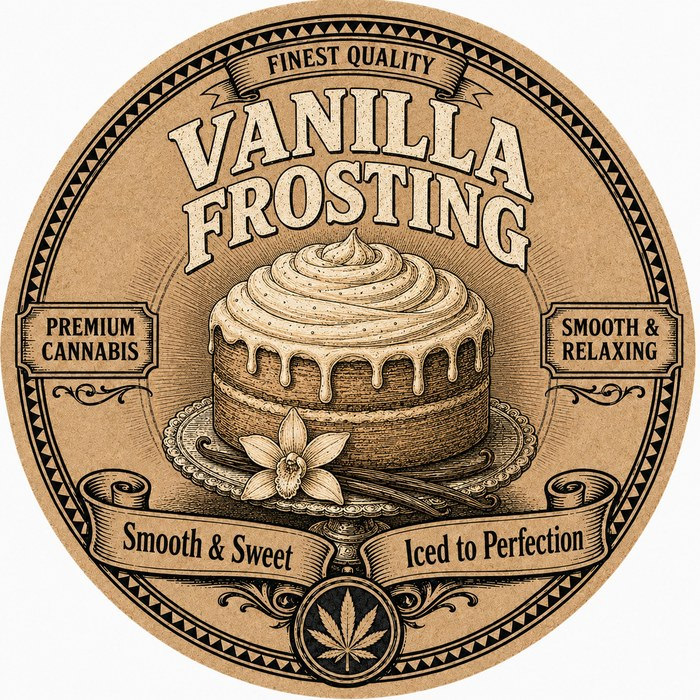
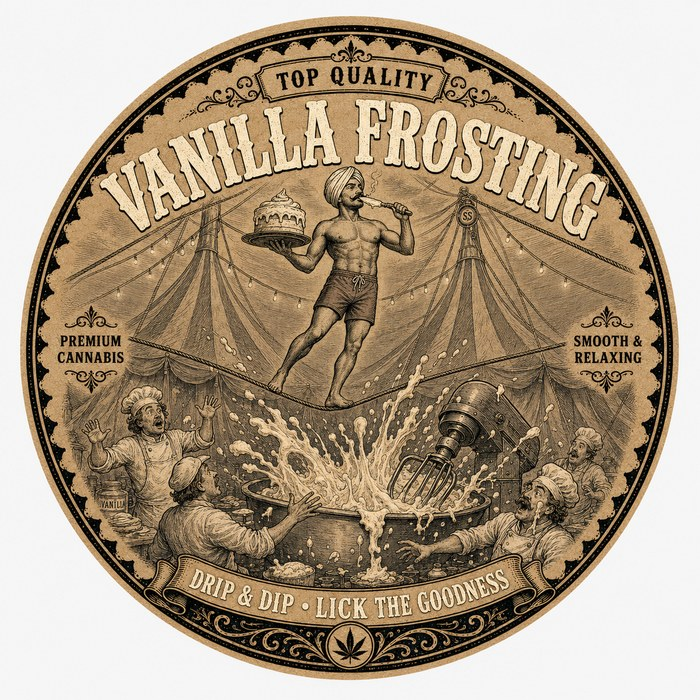
feat: ingest 16 new labels incl. new strain Cap Junky (catalog 266)
New art: blue-dream cigarette-main (replaces the removed alt), animal-face
cartoon, gary-payton pin-up, green-crack pin-up, ice-cream-cake pin-up,
lemon-cherry-gelato pin-up, maui-wowie pin-up, slurricane cigarette,
vanilla-frosting cartoon, wedding-cake cartoon, and Cap Junky pin-up
(new strain, added by creating its folder). Auto-optimized on import.

diff --git a/labelCatalog.js b/labelCatalog.js
@@ -6,7 +6,7 @@
 
 const LABEL_CATALOG = [
 
-    // Cigarette Series (43)
+    // Cigarette Series (45)
     {
         strain: "AK-47",
         strainSlug: "ak-47",
@@ -62,6 +62,14 @@ const LABEL_CATALOG = [
         seriesSlug: "cigarette",
         image: "public/labels/black-garlic/cigarette-main.jpg",
         labelId: "CIGA-BLACK-GARLIC-MAIN"
+    },
+    {
+        strain: "Blue Dream",
+        strainSlug: "blue-dream",
+        series: "Cigarette Series",
+        seriesSlug: "cigarette",
+        image: "public/labels/blue-dream/cigarette-main.jpg",
+        labelId: "CIGA-BLUE-DREAM-MAIN"
     },
     {
         strain: "Blueberry Muffin",
@@ -288,6 +296,14 @@ const LABEL_CATALOG = [
         labelId: "CIGA-PURPLE-PUNCH-MAIN"
     },
     {
+        strain: "Slurricane",
+        strainSlug: "slurricane",
+        series: "Cigarette Series",
+        seriesSlug: "cigarette",
+        image: "public/labels/slurricane/cigarette-main.jpg",
+        labelId: "CIGA-SLURRICANE-MAIN"
+    },
+    {
         strain: "Trainwreck",
         strainSlug: "trainwreck",
         series: "Cigarette Series",
@@ -352,7 +368,7 @@ const LABEL_CATALOG = [
         labelId: "CIGA-ZKITTLEZ-MAIN"
     },
 
-    // Pin-Up Series (57)
+    // Pin-Up Series (68)
     {
         strain: "Animal Face",
         strainSlug: "animal-face",
@@ -450,6 +466,22 @@ const LABEL_CATALOG = [
         labelId: "PIN-BUBBLEGUM-GUSHERS-ALT1"
     },
     {
+        strain: "Cap Junky",
+        strainSlug: "cap-junky",
+        series: "Pin-Up Series",
+        seriesSlug: "pinup",
+        image: "public/labels/cap-junky/pinup-alt.jpg",
+        labelId: "PIN-CAP-JUNKY-ALT"
+    },
+    {
+        strain: "Cap Junky",
+        strainSlug: "cap-junky",
+        series: "Pin-Up Series",
+        seriesSlug: "pinup",
+        image: "public/labels/cap-junky/pinup-main.jpg",
+        labelId: "PIN-CAP-JUNKY-MAIN"
+    },
+    {
         strain: "Cereal Milk",
         strainSlug: "cereal-milk",
         series: "Pin-Up Series",
@@ -530,6 +562,14 @@ const LABEL_CATALOG = [
         labelId: "PIN-FORBIDDEN-FRUIT-MAIN"
     },
     {
+        strain: "Gary Payton",
+        strainSlug: "gary-payton",
+        series: "Pin-Up Series",
+        seriesSlug: "pinup",
+        image: "public/labels/gary-payton/pinup-alt.jpg",
+        labelId: "PIN-GARY-PAYTON-ALT"
+    },
+    {
         strain: "Gelato",
         strainSlug: "gelato",
         series: "Pin-Up Series",
@@ -586,6 +626,38 @@ const LABEL_CATALOG = [
         labelId: "PIN-GRANDDADDY-PURPLE-MAIN"
     },
     {
+        strain: "Green Crack",
+        strainSlug: "green-crack",
+        series: "Pin-Up Series",
+        seriesSlug: "pinup",
+        image: "public/labels/green-crack/pinup-alt.jpg",
+        labelId: "PIN-GREEN-CRACK-ALT"
+    },
+    {
+        strain: "Green Crack",
+        strainSlug: "green-crack",
+        series: "Pin-Up Series",
+        seriesSlug: "pinup",
+        image: "public/labels/green-crack/pinup-main.jpg",
+        labelId: "PIN-GREEN-CRACK-MAIN"
+    },
+    {
+        strain: "Ice Cream Cake",
+        strainSlug: "ice-cream-cake",
+        series: "Pin-Up Series",
+        seriesSlug: "pinup",
+        image: "public/labels/ice-cream-cake/pinup-alt.jpg",
+        labelId: "PIN-ICE-CREAM-CAKE-ALT"
+    },
+    {
+        strain: "Ice Cream Cake",
+        strainSlug: "ice-cream-cake",
+        series: "Pin-Up Series",
+        seriesSlug: "pinup",
+        image: "public/labels/ice-cream-cake/pinup-main.jpg",
+        labelId: "PIN-ICE-CREAM-CAKE-MAIN"
+    },
+    {
         strain: "Jack Herer",
         strainSlug: "jack-herer",
         series: "Pin-Up Series",
@@ -602,6 +674,22 @@ const LABEL_CATALOG = [
         labelId: "PIN-KUSH-MINTS-MAIN"
     },
     {
+        strain: "Lemon Cherry Gelato",
+        strainSlug: "lemon-cherry-gelato",
+        series: "Pin-Up Series",
+        seriesSlug: "pinup",
+        image: "public/labels/lemon-cherry-gelato/pinup-alt.jpg",
+        labelId: "PIN-LEMON-CHERRY-GELATO-ALT"
+    },
+    {
+        strain: "Lemon Cherry Gelato",
+        strainSlug: "lemon-cherry-gelato",
+        series: "Pin-Up Series",
+        seriesSlug: "pinup",
+        image: "public/labels/lemon-cherry-gelato/pinup-main.jpg",
+        labelId: "PIN-LEMON-CHERRY-GELATO-MAIN"
+    },
+    {
         strain: "Lemon Haze",
         strainSlug: "lemon-haze",
         series: "Pin-Up Series",
@@ -616,6 +704,22 @@ const LABEL_CATALOG = [
         seriesSlug: "pinup",
         image: "public/labels/lemon-haze/pinup-main.jpg",
         labelId: "PIN-LEMON-HAZE-MAIN"
+    },
+    {
+        strain: "Maui Wowie",
+        strainSlug: "maui-wowie",
+        series: "Pin-Up Series",
+        seriesSlug: "pinup",
+        image: "public/labels/maui-wowie/pinup-alt.jpg",
+        labelId: "PIN-MAUI-WOWIE-ALT"
+    },
+    {
+        strain: "Maui Wowie",
+        strainSlug: "maui-wowie",
+        series: "Pin-Up Series",
+        seriesSlug: "pinup",
+        image: "public/labels/maui-wowie/pinup-main.jpg",
+        labelId: "PIN-MAUI-WOWIE-MAIN"
     },
     {
         strain: "Mochi",
@@ -810,7 +914,15 @@ const LABEL_CATALOG = [
         labelId: "PIN-ZOOKIES-MAIN"
     },
 
-    // Early Cartoon Series (29)
+    // Early Cartoon Series (32)
+    {
+        strain: "Animal Face",
+        strainSlug: "animal-face",
+        series: "Early Cartoon Series",
+        seriesSlug: "cartoon",
+        image: "public/labels/animal-face/cartoon-main.jpg",
+        labelId: "CART-ANIMAL-FACE-MAIN"
+    },
     {
         strain: "Biscotti",
         strainSlug: "biscotti",
@@ -1034,6 +1146,22 @@ const LABEL_CATALOG = [
         seriesSlug: "cartoon",
         image: "public/labels/super-boof/cartoon-main.jpg",
         labelId: "CART-SUPER-BOOF-MAIN"
+    },
+    {
+        strain: "Vanilla Frosting",
+        strainSlug: "vanilla-frosting",
+        series: "Early Cartoon Series",
+        seriesSlug: "cartoon",
+        image: "public/labels/vanilla-frosting/cartoon-main.jpg",
+        labelId: "CART-VANILLA-FROSTING-MAIN"
+    },
+    {
+        strain: "Wedding Cake",
+        strainSlug: "wedding-cake",
+        series: "Early Cartoon Series",
+        seriesSlug: "cartoon",
+        image: "public/labels/wedding-cake/cartoon-main.jpg",
+        labelId: "CART-WEDDING-CAKE-MAIN"
     },
     {
         strain: "White Widow",